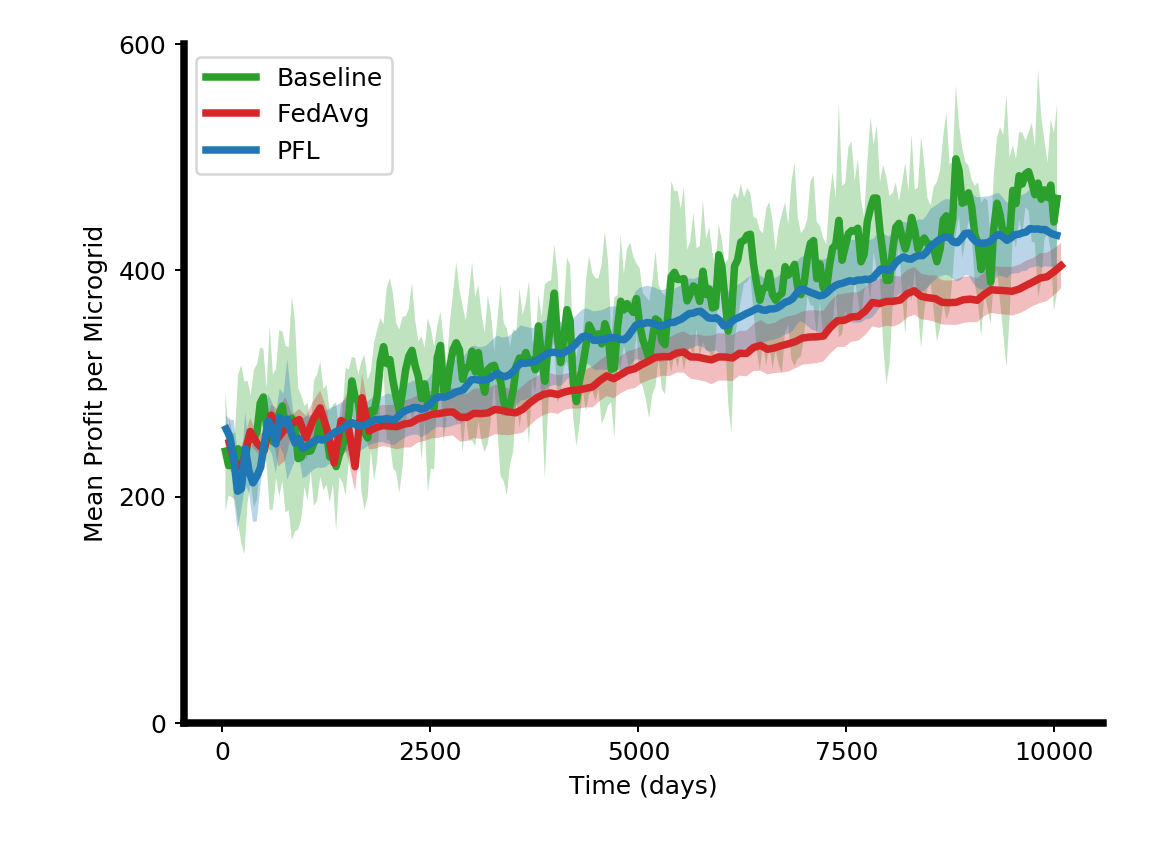
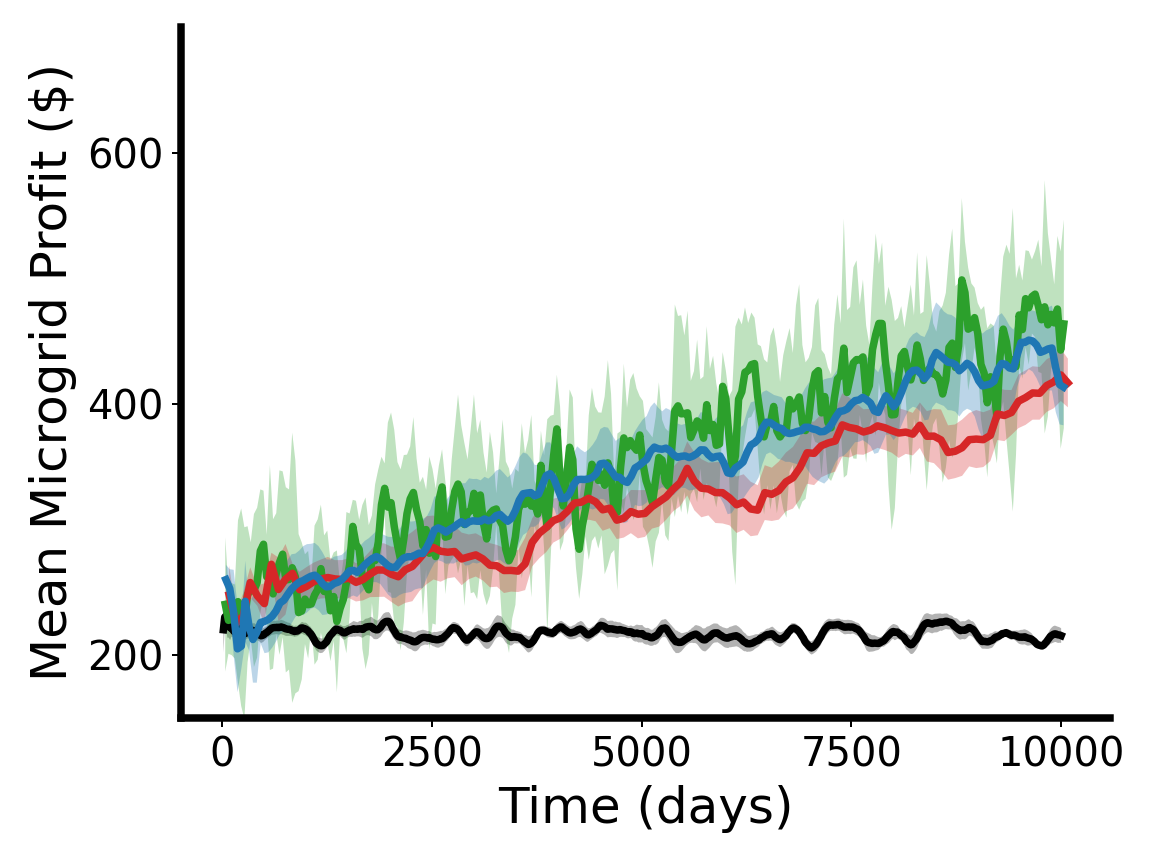
added python_)export

Changed region(s): [[0.0312, 0.0312, 0.9688, 0.9688]]

diff --git a/writeup/graph.py b/writeup/graph.py
@@ -2,8 +2,9 @@ import matplotlib.pyplot as plt
 import matplotlib
 from graph_logs import *
 import os
-xticks = [2500 * i for i in range(5)]
+
 def graph(file, window_width=5, smooth_baseline=True):
+    xticks = [2500 * i for i in range(5)]
     TAG="ray/tune/custom_metrics/agg/reward_mean_mean"
     FIGS_DIR = "figs/"
     FORMAT='png'
@@ -11,7 +12,7 @@ def graph(file, window_width=5, smooth_baseline=True):
     axis_width=3
     def name_func(name):
         if "hnet" in name:
-            return "PFL"
+            return "PFH"
         elif "afl" in name:
             return "FedAvg"
         elif "baseline" in name:
@@ -20,7 +21,7 @@ def graph(file, window_width=5, smooth_baseline=True):
             return "ERROR"
     
     def color_func(name):
-        if "PFL" in name:
+        if "PFH" in name:
             return "tab:blue"
         elif "FedAvg" in name:
             return "tab:red"
@@ -31,11 +32,37 @@ def graph(file, window_width=5, smooth_baseline=True):
 
     data_func = lambda x: x
     
-    yticks = [200 * i for i in range(4)]
+    yticks = [200 * i for i in range(1, 4)]
+    exp_type = None
+    if "simple" in file:
+        exp_type = "simple"
+    elif "medium" in file:
+        exp_type = "medium"
+    elif "complex" in file:
+        exp_type = "complex"
+    draw("norl_{}.csv".format(exp_type), 
+        TAG, 
+        "Time (days)", 
+        "Mean Microgrid Profit ($)", 
+        fig_name=file,
+        figs_dir=FIGS_DIR, 
+        format=FORMAT, 
+        linewidth=linewidth, 
+        axis_width=axis_width, 
+        name_func=lambda x: "No RL", 
+        xticks=xticks,
+        yticks=yticks,
+        window_width=window_width, 
+        data_func=data_func,
+        color_func=color_func,
+        smooth_baseline=smooth_baseline, 
+        plot_legend=False,
+        err_scale=1,
+        reset=False)
     draw(file + ".csv", 
         TAG, 
         "Time (days)", 
-        "Mean Profit per Microgrid", 
+        "Mean Microgrid Profit ($)", 
         fig_name=file,
         figs_dir=FIGS_DIR, 
         format=FORMAT, 
@@ -48,9 +75,11 @@ def graph(file, window_width=5, smooth_baseline=True):
         data_func=data_func,
         color_func=color_func,
         smooth_baseline=smooth_baseline, 
+        plot_legend=False,
         err_scale=2)
     
 def graph_zeroshot(file, window_width=5, smooth_baseline=True):
+    xticks = [1000 * i for i in range(5)]
     TAG="ray/tune/custom_metrics/agg/reward_mean_mean"
     FIGS_DIR = "figs/"
     FORMAT='png'
@@ -58,9 +87,9 @@ def graph_zeroshot(file, window_width=5, smooth_baseline=True):
     axis_width=3
     def name_func(name):
         if "zeroshot_hnet" in name:
-            return "Few-Shot PFL"
+            return "Few-Shot PFH"
         elif "hnet" in name:
-            return "Original PFL"
+            return "Original PFH"
         elif "baseline" in name:
             return "Baseline"
         else:
@@ -82,7 +111,7 @@ def graph_zeroshot(file, window_width=5, smooth_baseline=True):
     draw(file + ".csv", 
         TAG, 
         "Time (days)", 
-        "Mean Profit per Microgrid", 
+        "Mean Microgrid Profit ($)", 
         fig_name=file,
         figs_dir=FIGS_DIR, 
         format=FORMAT, 
@@ -94,9 +123,12 @@ def graph_zeroshot(file, window_width=5, smooth_baseline=True):
         window_width=window_width, 
         data_func=data_func,
         color_func=color_func,
-        smooth_baseline=smooth_baseline)
+        smooth_baseline=smooth_baseline,
+        cutoff=4000,
+        legend_font=12)
 
 def graph_zeroshot_all(file, window_width=5, smooth_baseline=True):
+    xticks = [2500 * i for i in range(5)]
     TAG="ray/tune/custom_metrics/agg/reward_mean_mean"
     FIGS_DIR = "figs/"
     FORMAT='png'
@@ -106,10 +138,9 @@ def graph_zeroshot_all(file, window_width=5, smooth_baseline=True):
         if "zeroshot_hnet" in name:
             _, b = name.split("custom")
             b, _ = b.split("_")
-            print(b)
-            return "Few-Shot PFL ({})".format(b)
+            return "Few-Shot PFH ({})".format(b)
         elif "hnet" in name:
-            return "Original PFL"
+            return "Original PFH"
         elif "baseline" in name:
             return "Baseline"
         else:
@@ -131,11 +162,11 @@ def graph_zeroshot_all(file, window_width=5, smooth_baseline=True):
 
     data_func = lambda x: x
     
-    yticks = [200 * i for i in range(4)]
+    yticks = [200 * i for i in range(1, 4)]
     draw(file + ".csv", 
         TAG, 
         "Time (days)", 
-        "Mean Profit per Microgrid", 
+        "Mean Microgrid Profit ($)", 
         fig_name=file,
         figs_dir=FIGS_DIR, 
         format=FORMAT, 
@@ -147,17 +178,18 @@ def graph_zeroshot_all(file, window_width=5, smooth_baseline=True):
         window_width=window_width, 
         data_func=data_func,
         color_func=color_func,
-        smooth_baseline=smooth_baseline)
+        smooth_baseline=smooth_baseline,
+        legend_font=12)
 
 graph_zeroshot("zeroshot_20",  window_width=10, smooth_baseline=True)
 graph_zeroshot_all("zeroshot_all",  window_width=10, smooth_baseline=True)
 
-# graph("medium_10", smooth_baseline=False)
-graph("simple_10", window_width=20, smooth_baseline=True)
+graph("medium_10", window_width=10, smooth_baseline=True)
+graph("simple_10", window_width=10, smooth_baseline=True)
 graph("complex_10",  window_width=10, smooth_baseline=True)
-graph("medium_20")
-graph("simple_20", window_width=20, smooth_baseline=True)
+graph("medium_20",  window_width=10, smooth_baseline=True)
+graph("simple_20", window_width=10, smooth_baseline=True)
 graph("complex_20", window_width=10, smooth_baseline=True)
-graph("simple_05", window_width=20, smooth_baseline=True)
-graph("medium_05", window_width=10)
-graph("complex_05", window_width=20, smooth_baseline=True)
+graph("simple_05", window_width=10, smooth_baseline=True)
+graph("medium_05", window_width=10, smooth_baseline=True)
+graph("complex_05", window_width=10, smooth_baseline=True)

diff --git a/writeup/graph_logs.py b/writeup/graph_logs.py
@@ -1,3 +1,4 @@
+from cProfile import label
 import pandas as pd
 import matplotlib.pyplot as plt
 import matplotlib
@@ -46,20 +47,24 @@ def read_results(PATH, TAG, name_func, cutoff=10000000):
                 print(orig_grp, grp)
                 group_mins[grp] = df.iloc[:, [0, i]]
                 group_mins[grp] = group_mins[grp].dropna()
-                group_mins[grp].iloc[:, 1] = groups[orig_grp].iloc[:, 1] - group_mins[grp][group_mins[grp].iloc[:, 0] < cutoff].iloc[:, 1]
+                
+                group_mins[grp] = group_mins[grp][group_mins[grp].iloc[:, 0] < cutoff]
+                group_mins[grp].iloc[:, 1] = groups[orig_grp].iloc[:, 1] - group_mins[grp].iloc[:, 1]
 
                 group_maxs[grp] = df.iloc[:, [0, i]]
                 group_maxs[grp] = group_maxs[grp].dropna()
-                group_maxs[grp].iloc[:, 1] = groups[orig_grp].iloc[:, 1] + group_maxs[grp][group_maxs[grp].iloc[:, 0] < cutoff].iloc[:, 1]
+                group_maxs[grp] = group_maxs[grp][group_maxs[grp].iloc[:, 0] < cutoff]
+                group_maxs[grp].iloc[:, 1] = groups[orig_grp].iloc[:, 1] + group_maxs[grp].iloc[:, 1]
                 print(groups[orig_grp].shape, group_maxs[grp].shape, group_mins[grp].shape)
             
     return groups, group_maxs, group_mins
 
-def draw(PATH, TAG, x_label, y_label, data_dir="data/", yticks=None, xticks=None,linewidth=3, axis_width=3, format=".eps", figs_dir="figs/", name_func=lambda x:x, data_func=lambda x: x, fig_name="fig" , window_width=1, reset=True, name_filter=lambda x: True, color_func = None, smooth_baseline = False, err_scale=1):
+def draw(PATH, TAG, x_label, y_label, data_dir="data/", yticks=None, xticks=None,linewidth=3, axis_width=3, format=".eps", figs_dir="figs/", name_func=lambda x:x, data_func=lambda x: x, fig_name="fig" , window_width=1, reset=True, name_filter=lambda x: True, color_func = None, smooth_baseline = False, err_scale=1, cutoff=1000000000, plot_legend=True, legend_font=16):
     if data_dir:
         PATH = os.path.join(data_dir, PATH)
-    groups, group_maxs, group_mins = read_results(PATH, TAG, name_func)
+    groups, group_maxs, group_mins = read_results(PATH, TAG, name_func, cutoff)
     combined = list(groups.items())
+    max_x = 0
     for col_name, df in combined:
         
         if not name_filter(col_name):
@@ -70,6 +75,7 @@ def draw(PATH, TAG, x_label, y_label, data_dir="data/", yticks=None, xticks=None
 
         ys = data_func(df.iloc[:, 1]).to_numpy()
         xs = df.iloc[:, 0].to_numpy()
+        max_x = max(max_x, np.max(xs))
         if window_width > 1 and (name != "Baseline" or not smooth_baseline):
             ys = ma(ys, window_width)
             # xs = xs[window_width//2:-window_width//2+1]
@@ -100,7 +106,7 @@ def draw(PATH, TAG, x_label, y_label, data_dir="data/", yticks=None, xticks=None
                 errs /= err_scale
                 #min_xs = min_xs[window_width//2:-window_width//2+1]
             #plt.fill_between(max_xs, min_ys, max_ys, alpha=0.2)
-
+        breakpoint()
         if color_func == None:
             #plt.errorbar(xs, ys, label=name, linewidth=linewidth, yerr = errs)
             p = plt.plot(xs, ys, label=name, linewidth=linewidth)
@@ -109,20 +115,25 @@ def draw(PATH, TAG, x_label, y_label, data_dir="data/", yticks=None, xticks=None
             #plt.errorbar(xs, ys, label=name, linewidth=linewidth, c='b', yerr=errs)
             p = plt.plot(xs, ys, label=name, linewidth=linewidth, c=color_func(name))
         plt.fill_between(xs, (ys - errs)[::1], (ys + errs)[::1], alpha=0.3, interpolate=True, facecolor=p[-1].get_color())
+    # if plot_norl:
+    #     plt.plot(range(max_x), np.ones([max_x])*220, label="No RL", linewidth=linewidth, c="brown")
 
 
     plt.gca().spines['right'].set_visible(False)
     plt.gca().spines['top'].set_visible(False)
     plt.gca().spines['left'].set_linewidth(axis_width)
     plt.gca().spines['bottom'].set_linewidth(axis_width)
-
-    plt.xlabel(x_label)
-    plt.ylabel(y_label)
+    label_font=20
+    tick_font=16
+    plt.xlabel(x_label, fontsize=label_font)
+    plt.ylabel(y_label, fontsize=label_font)
     if yticks is not None:
-        plt.yticks(yticks)
+        plt.yticks(yticks, fontsize=tick_font)
     if xticks is not None:
-        plt.xticks(xticks)
-    plt.legend(fontsize=10)
+        plt.xticks(xticks, fontsize=tick_font)
+    plt.ylim(150, 700)
+    if plot_legend:
+        plt.legend(fontsize=legend_font)
     plt.tight_layout()
     save_fig_name = os.path.join(figs_dir, "{}.{}".format(fig_name, format))
     plt.savefig(save_fig_name, format=format, dpi=180)

diff --git a/writeup/run_queries.py b/writeup/run_queries.py
@@ -10,5 +10,14 @@ QUERIES = {
                         {"config.tag": "medium_hnetagg_custom20_alt"},
                         {"config.tag": "medium_zeroshot_hnetagg_custom5_alt"},
                         {"config.tag": "medium_zeroshot_hnetagg_custom10_noembed"}]
-                    }
+                    },
+            "norl_simple": {"$or": [
+                        {"config.tag": "simple_norl10"},]
+                    },
+            "norl_medium": {"$or": [
+                        {"config.tag": "medium_norl10"},]
+                    },
+            "norl_complex": {"$or": [
+                        {"config.tag": "complex_norl10"},]
+                    },
 }
